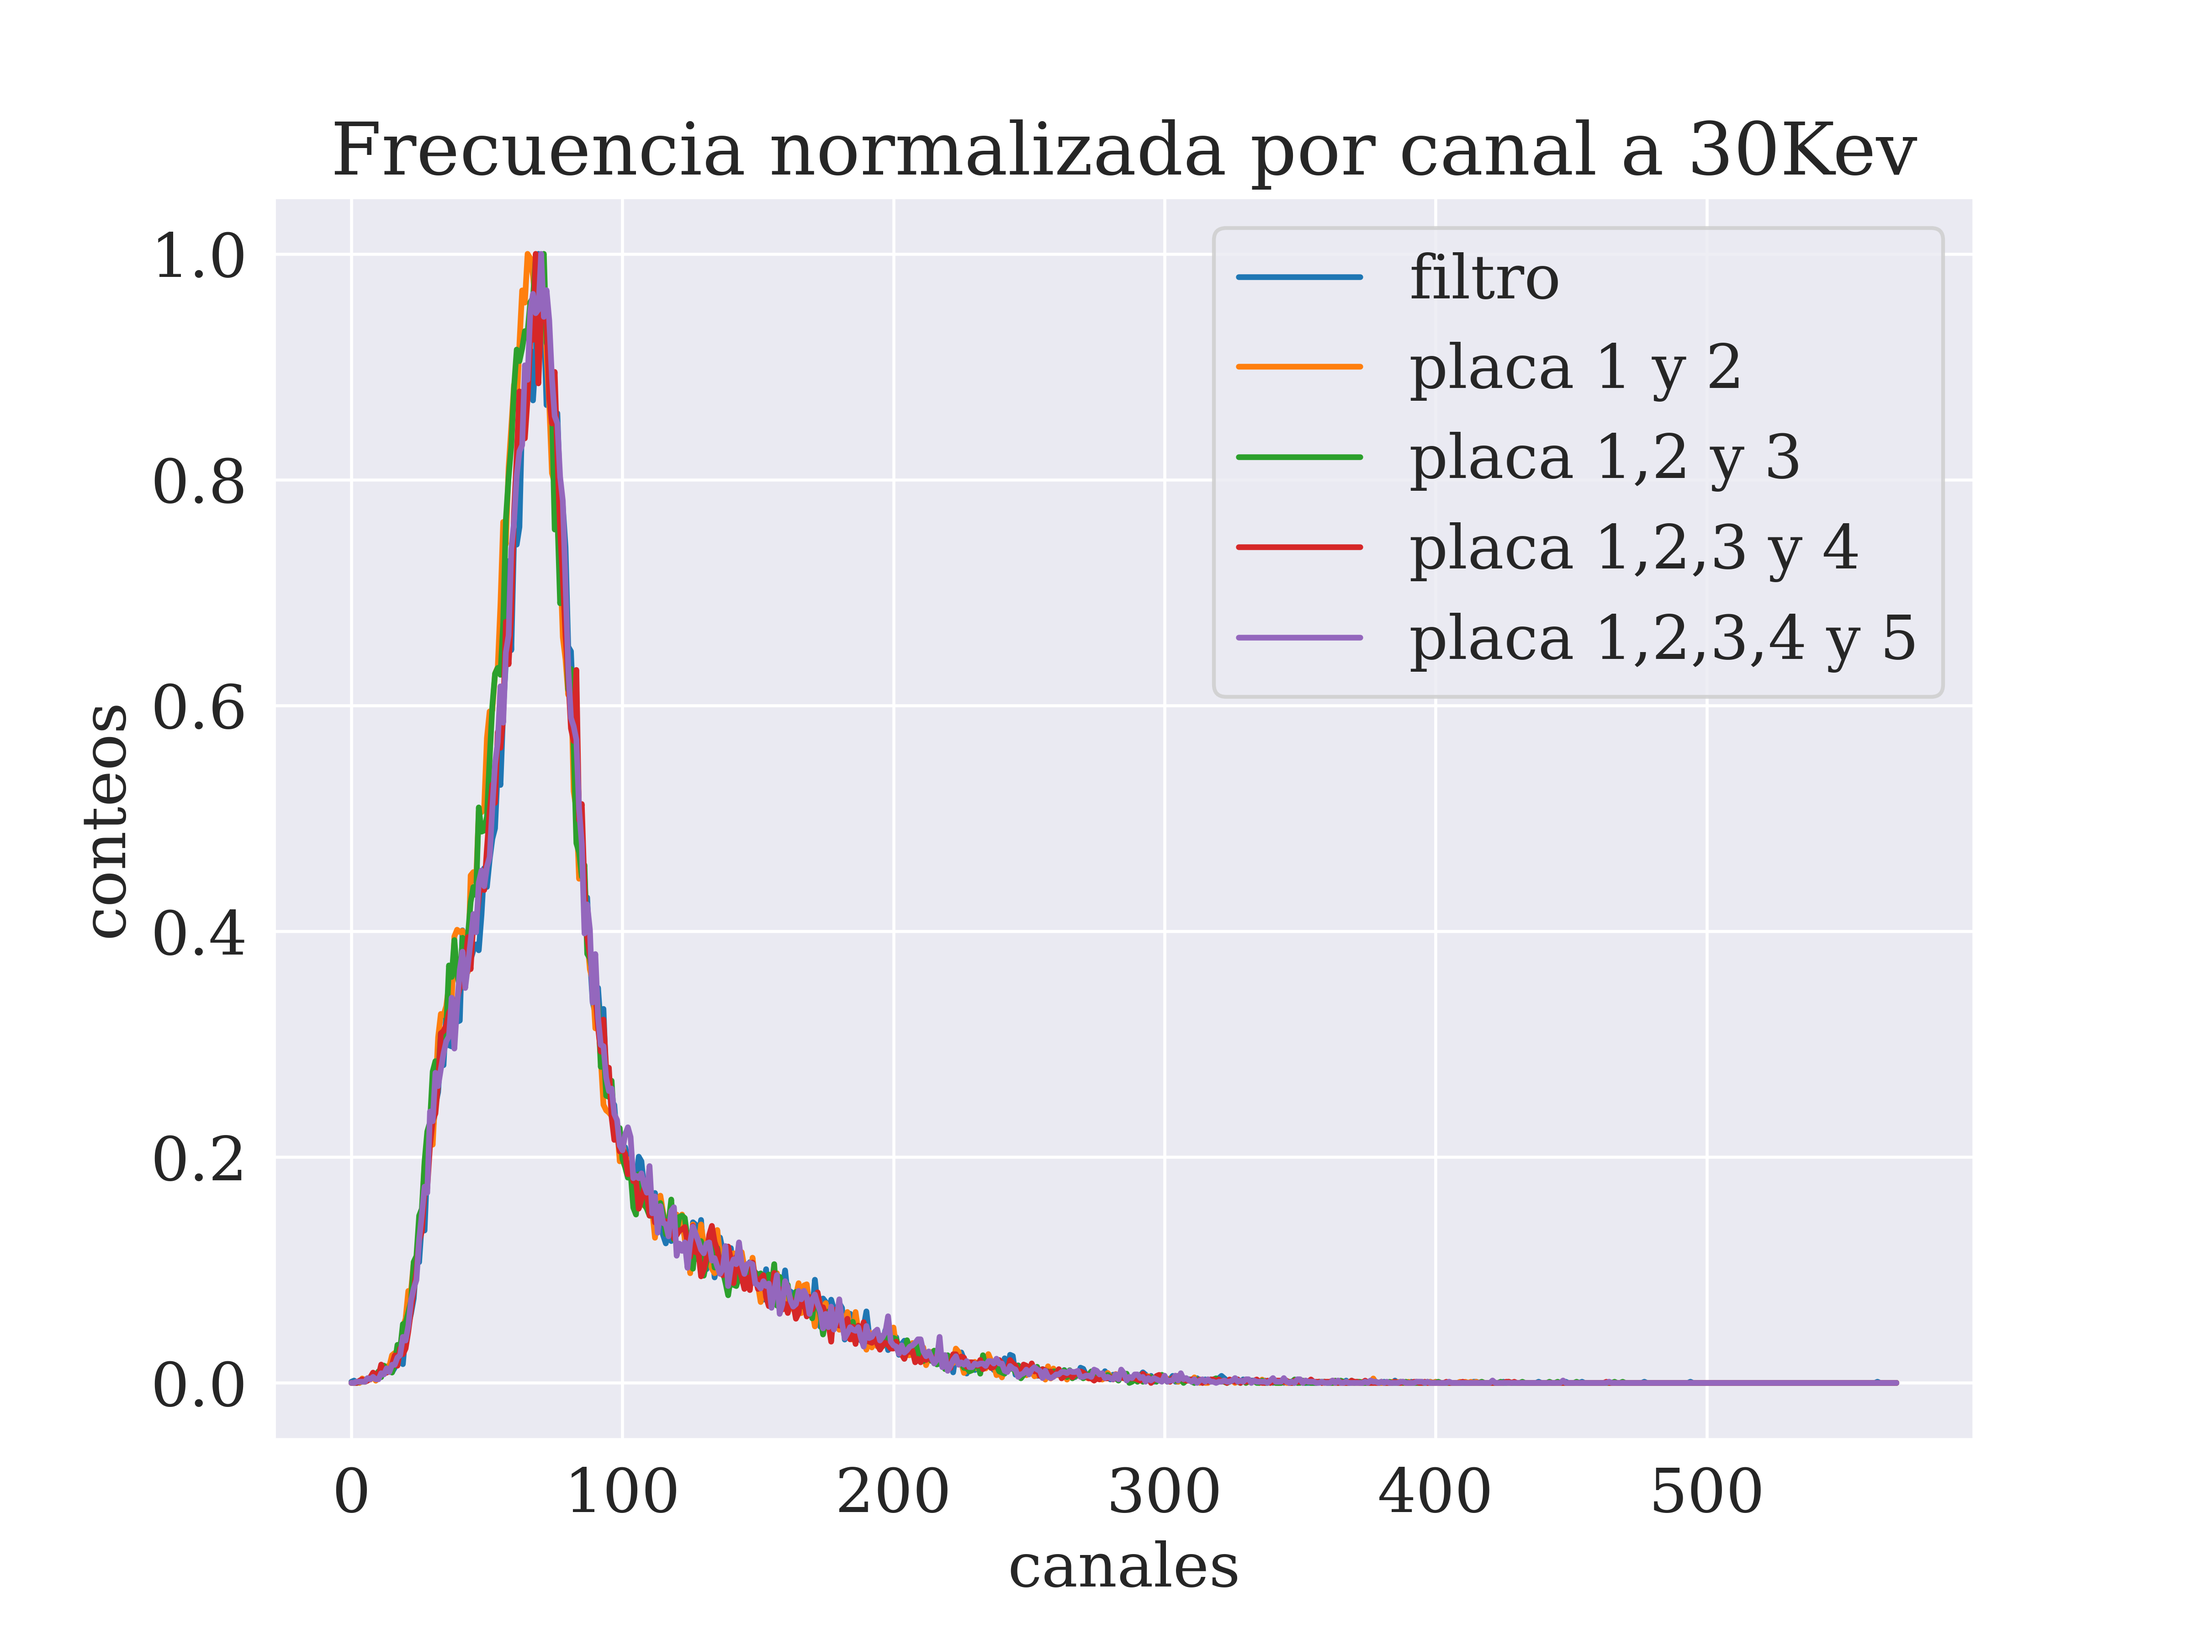
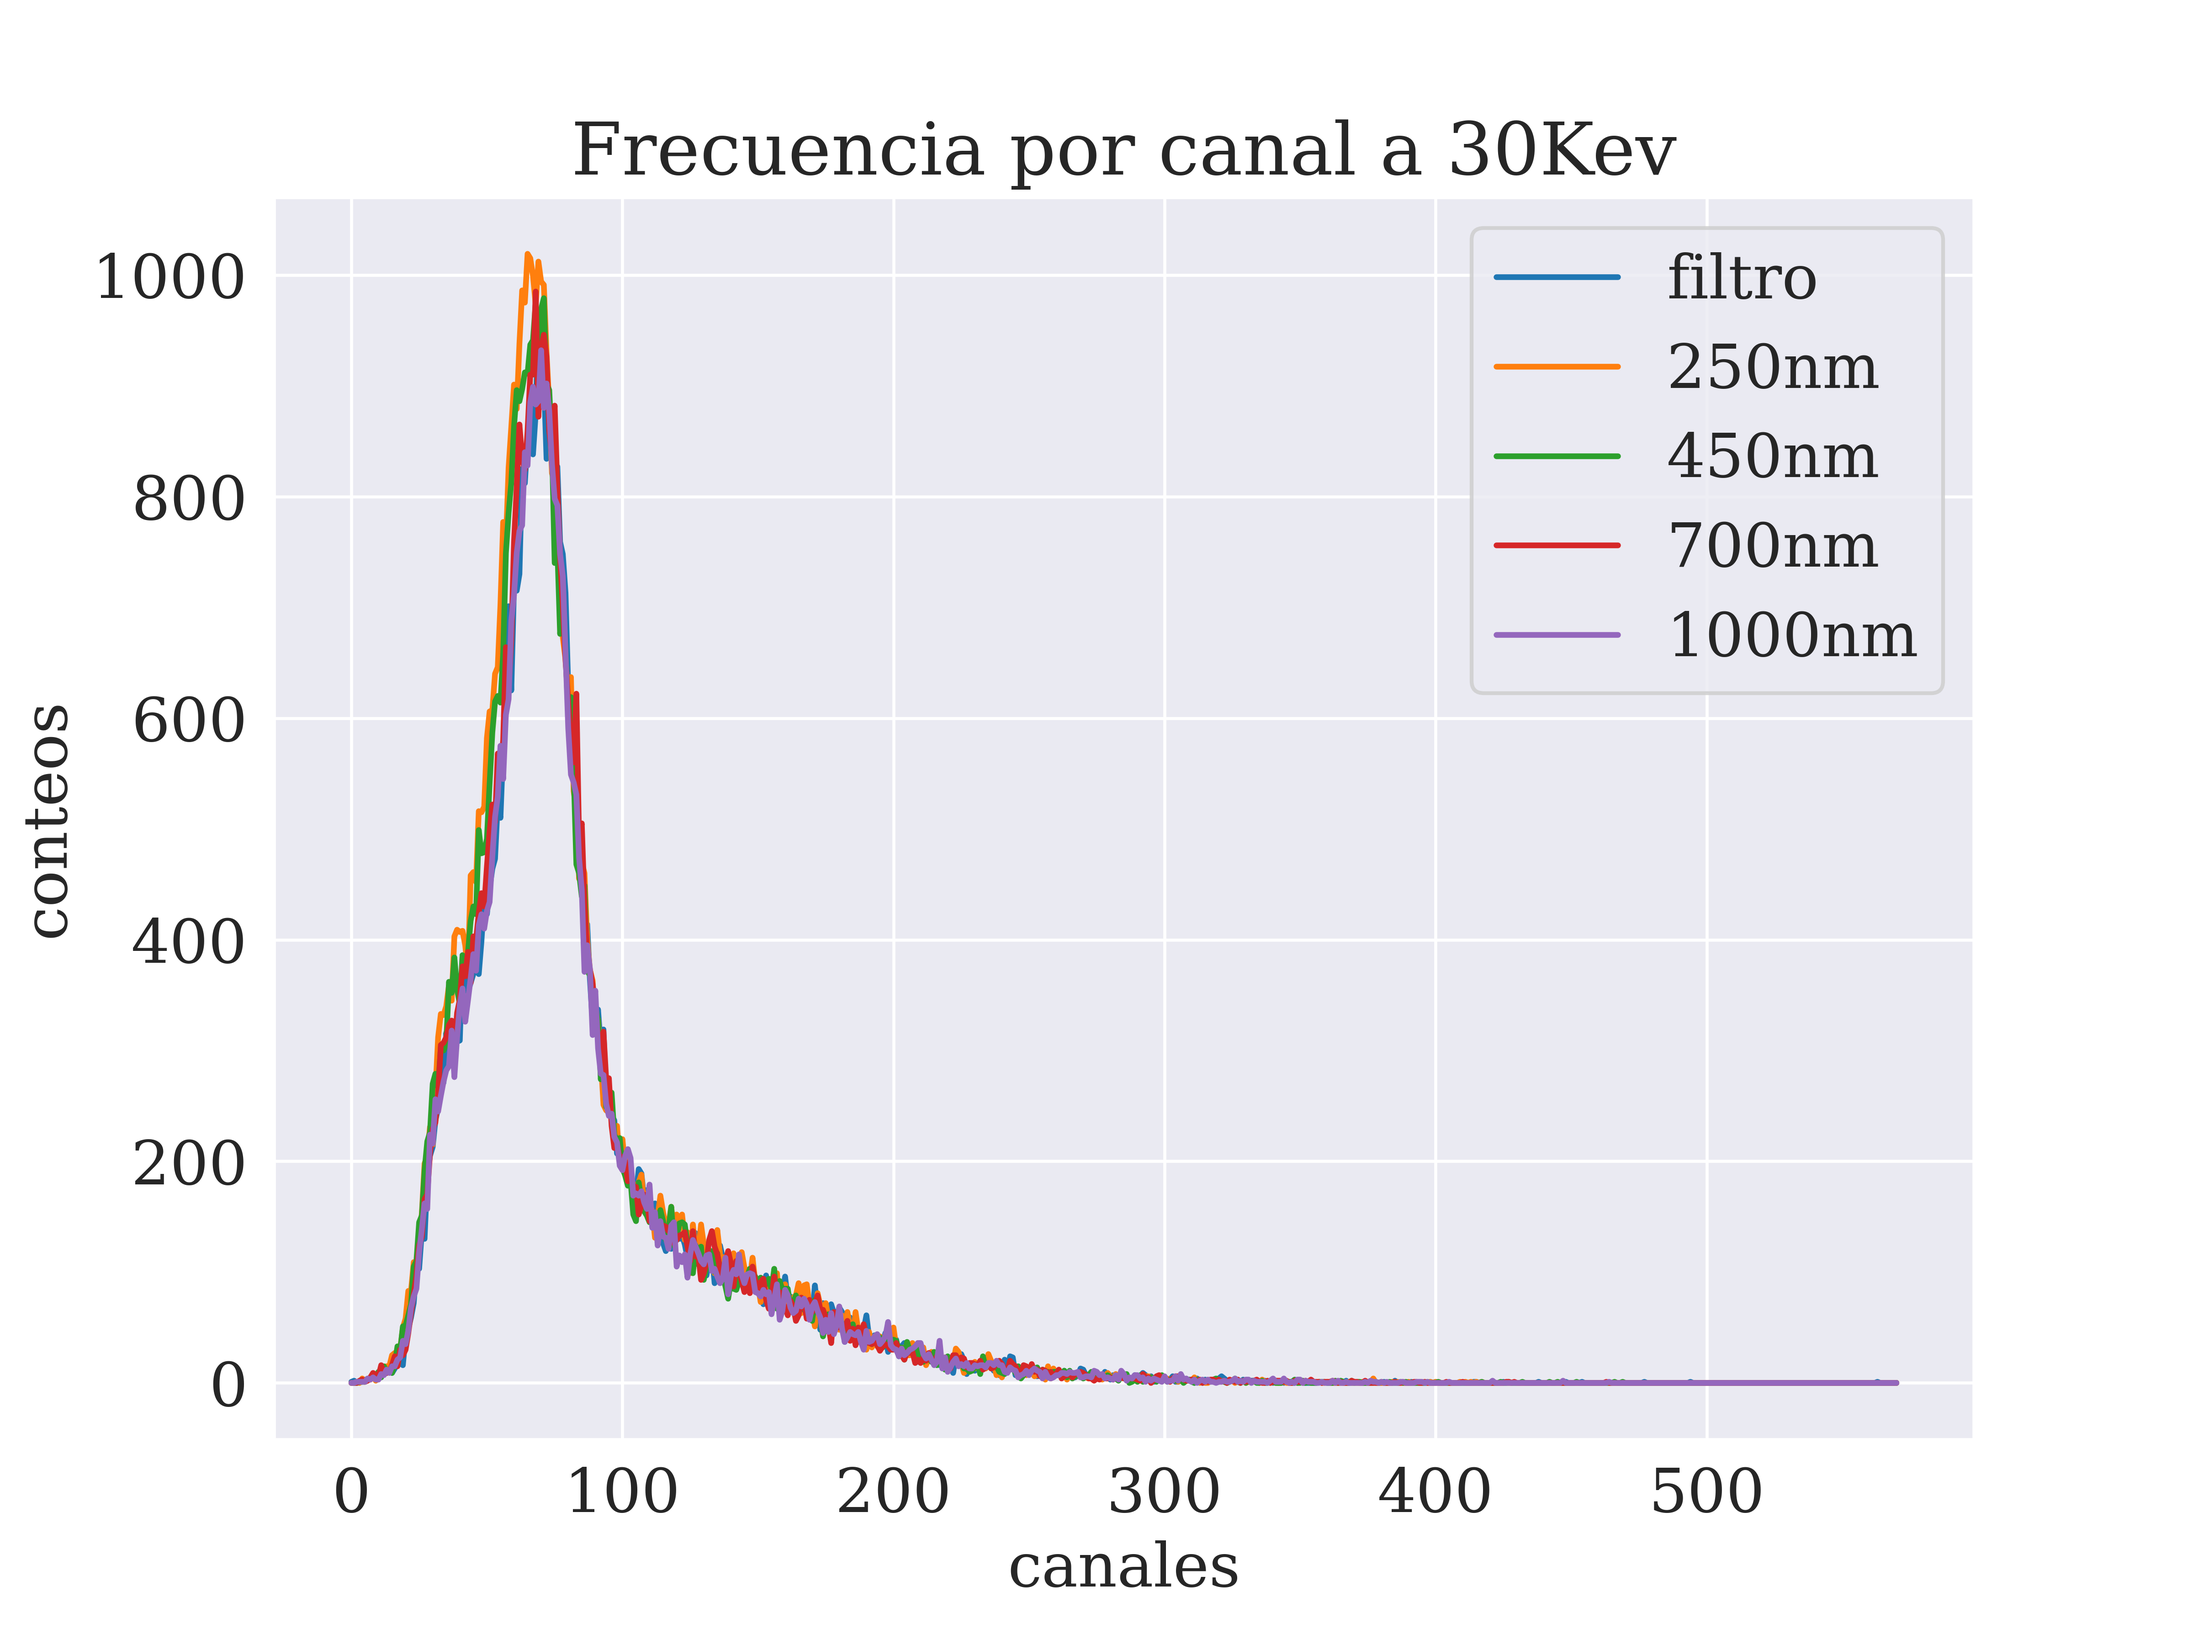
Graficas 30KeV

diff --git a/Codigos/Analisis de datos/Analisis_proyecto_experimental.py b/Codigos/Analisis de datos/Analisis_proyecto_experimental.py
@@ -83,14 +83,11 @@ for filename in os.listdir(folder_path):
 """
 Selecting the data
 """
-
-for name in columnames:
-    maxd = max(df[name])
-    df[name] = df[name]/maxd 
+ 
 
 print(columnames)
 
-y_keys = [columnames[-2]] + [columnames [-1]] + columnames[:-2]
+y_keys = [columnames [-2]] +  [columnames [-1]] + columnames[:-2]
 
 print(y_keys)
 
@@ -110,8 +107,8 @@ fig, ax = plt.subplots(figsize=(8, 6))
 x_key = "canales"
 x_label = "canales"
 y_label = "conteos"
-plot_labels = ["filtros", '950nm', '1350nm', '1700nm', '2000nm', '2250nm']
-title = "Frecuencia normalizada por canal a 30Kev"
+plot_labels = ["filtro",'950nm', '1350nm', '1700nm', '2000nm', '2250nm']
+title = "Frecuencia por canal a 30Kev"
 
 # Call the function to plot data on multiple axes
 plot_dataframe(df, x_key, y_keys, x_label, y_label, plot_labels, ax, title)
@@ -119,7 +116,7 @@ plot_dataframe(df, x_key, y_keys, x_label, y_label, plot_labels, ax, title)
 """
 Saving image
 """ 
-name = "placas_sumadas.png"
+name = "placas_sumadas_a.png"
 plt.savefig(images_folder_path +  name,dpi=600)
 
 
